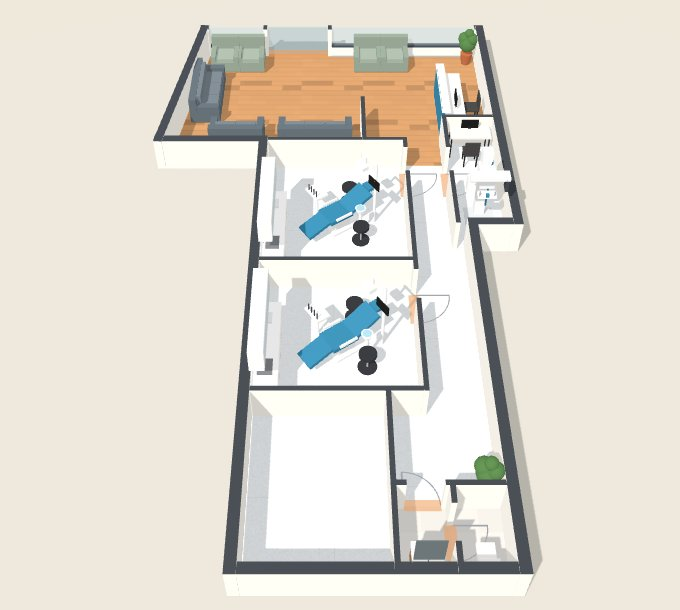
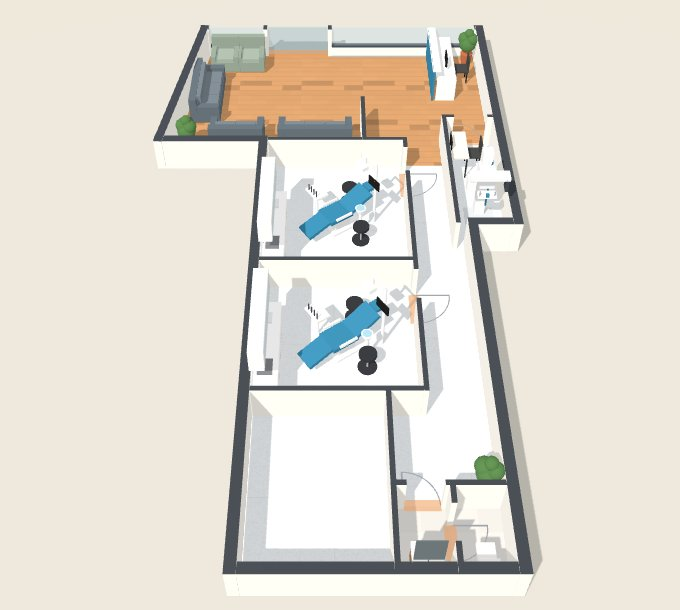
Klinik 3D: güncel yerleşim varsayılan plan yapıldı

Changed region(s): [[0.4941, 0.0311, 0.7412, 0.3115], [0.2471, 0.1869, 0.3088, 0.2492]]

diff --git a/klinik/index.html b/klinik/index.html
@@ -89,6 +89,7 @@ aside.off .cat button{opacity:.4;pointer-events:none}
   <button class="btn" id="b-undo" disabled>Geri al</button>
   <button class="btn" id="b-cut">Duvarlar: alçak</button>
   <button class="btn" id="b-reset">Planı sıfırla</button>
+  <button class="btn" id="b-export" hidden>Planı indir</button>
  </div>
 </header>
 <div class="app">
@@ -139,22 +140,11 @@ const CL_ROOMS=[
  {n:'Kullanılmayan alan',x0:3.01,z0:14.18,x1:6.22,z1:18.26,f:'vinil'},
  {n:'Lavabo',a:1.95,x0:6.22,z0:16.47,x1:7.43,z1:18.26,f:'seramik'},
  {n:'WC',a:1.95,x0:7.43,z0:16.47,x1:8.66,z1:18.26,f:'seramik'}];
-const CL_WALLS=[
- {a:[.78,0],b:[9.85,0],t:.25,o:[{s:.15,e:1.95,b:.35,t:2.5},{s:2.07,e:4.08,b:0,t:2.4,entry:'glass'},{s:4.2,e:8.9,b:.35,t:2.5}]},
- {a:[9.85,0],b:[9.85,8.97],t:.25,o:[]},{a:[9.85,8.97],b:[8.66,8.97],t:.25,o:[]},{a:[8.66,8.97],b:[8.66,18.26],t:.25,o:[]},
- {a:[3.01,18.26],b:[8.66,18.26],t:.25,o:[]},{a:[3.01,5.65],b:[3.01,18.26],t:.25,o:[]},{a:[0,5.65],b:[3.01,5.65],t:.25,o:[]},{a:[.78,0],b:[0,5.65],t:.25,o:[]},
- {a:[3.01,5.65],b:[7.07,5.65],t:.12,o:[]},{a:[5.91,3.75],b:[5.91,5.65],t:.12,o:[]},
- {a:[7.07,5.65],b:[7.07,14.18],t:.12,o:[{s:.38,e:1.36,b:0,t:2.1},{s:5,e:5.93,b:0,t:2.1}]},
- {a:[3.01,10.29],b:[7.07,10.29],t:.12,o:[]},{a:[3.01,14.18],b:[7.07,14.18],t:.12,o:[]},{a:[6.22,14.18],b:[6.22,18.26],t:.12,o:[]},
- {a:[8.28,4.62],b:[8.28,8.97],t:.12,o:[{s:1.41,e:2.39,b:0,t:2.1}]},{a:[8.28,4.62],b:[9.85,4.62],t:.12,o:[]},
- {a:[6.22,16.47],b:[8.66,16.47],t:.12,o:[{s:.27,e:1.07,b:0,t:2.1}]},{a:[7.43,16.47],b:[7.43,18.26],t:.12,o:[{s:.45,e:1.25,b:0,t:2.1}]}];
+const CL_WALLS=[{"a":[0.78,0],"b":[9.85,0],"t":0.25,"o":[{"s":0.15,"e":1.95,"b":0.35,"t":2.5},{"s":2.07,"e":4.08,"b":0,"t":2.4,"entry":"glass"},{"s":4.2,"e":8.9,"b":0.35,"t":2.5}]},{"a":[9.85,0],"b":[9.85,8.97],"t":0.25,"o":[]},{"a":[9.85,8.97],"b":[8.66,8.97],"t":0.25,"o":[]},{"a":[8.66,8.97],"b":[8.66,18.26],"t":0.25,"o":[]},{"a":[3.01,18.26],"b":[8.66,18.26],"t":0.25,"o":[]},{"a":[3.01,5.65],"b":[3.01,18.26],"t":0.25,"o":[]},{"a":[0,5.65],"b":[3.01,5.65],"t":0.25,"o":[]},{"a":[0.78,0],"b":[0,5.65],"t":0.25,"o":[]},{"a":[3.01,5.65],"b":[7.07,5.65],"t":0.12,"o":[]},{"a":[5.91,3.75],"b":[5.91,5.65],"t":0.12,"o":[]},{"a":[7.07,5.65],"b":[7.07,14.18],"t":0.12,"o":[{"s":0.38,"e":1.36,"b":0,"t":2.1},{"s":5,"e":5.93,"b":0,"t":2.1}]},{"a":[3.01,10.29],"b":[7.07,10.29],"t":0.12,"o":[]},{"a":[3.01,14.18],"b":[7.07,14.18],"t":0.12,"o":[]},{"a":[6.22,14.18],"b":[6.22,18.26],"t":0.12,"o":[]},{"a":[8.28,4.62],"b":[8.28,8.97],"t":0.12,"o":[]},{"a":[8.28,4.62],"b":[9.85,4.62],"t":0.12,"o":[{"s":0.3,"e":1.28,"b":0,"t":2.1}]},{"a":[6.22,16.47],"b":[8.66,16.47],"t":0.12,"o":[{"s":0.27,"e":1.07,"b":0,"t":2.1}]},{"a":[7.43,16.47],"b":[7.43,18.26],"t":0.12,"o":[{"s":0.45,"e":1.25,"b":0,"t":2.1}]}];
 const CL_DEFAULT=[
- ['armchair',1.49,.68,0],['armchair',2.32,.68,0],['armchair',6.16,.68,0],['armchair',7.03,.68,0],
- ['sofa',1.08,2.63,90],['sofa2',2.14,4.62,180],['sofa',4.48,4.62,180],['plant',9.45,.5,0],['reception',8.66,3.35,-90],
- ['dentalunit',5.18,8.1,-55],['ccounter',3.44,8.9,90],['dentalunit',5.24,12.3,-55],['ccounter',3.44,12.8,90],
- ['xpano',9.07,8.1,0],['desk',9.04,5.02,0],['sink',6.82,17.9,180],['toilet',8.05,17.8,180],['plant',8.25,16.1,0]];
+ ['armchair',1.49,.68,0],['armchair',2.32,.68,0],['sofa',1.08,2.63,90],['sofa2',2.14,4.62,180],['sofa',4.48,4.62,180],['plant',9.45,.5,0],['reception',8.55,1.35,-90],['dentalunit',5.18,8.1,-55],['ccounter',3.44,8.9,90],['dentalunit',5.24,12.3,-55],['ccounter',3.44,12.8,90],['xpano',9.07,8.1,0],['desk',8.6,5.6,90],['sink',6.82,17.9,180,'#a47a52'],['toilet',8.05,17.8,180,'#f4f3f0'],['plant',8.25,16.1,0],['plant',.7,4.95,0]];
 const UNITS={
- klinik:{name:'Diş Kliniği · zemin kat',W:9.85,D:18.26,rooms:CL_ROOMS,walls:CL_WALLS,def:CL_DEFAULT,key:'klinik3d-v2',start:{x:3.1,z:1.2,yaw:Math.PI},first:'Diş kliniği',outline:[[.78,0],[9.85,0],[9.85,8.97],[8.66,8.97],[8.66,18.26],[3.01,18.26],[3.01,5.65],[0,5.65]],
+ klinik:{name:'Diş Kliniği · zemin kat',W:9.85,D:18.26,rooms:CL_ROOMS,walls:CL_WALLS,def:CL_DEFAULT,key:'klinik3d-v3',start:{x:3.1,z:1.2,yaw:Math.PI},first:'Diş kliniği',outline:[[.78,0],[9.85,0],[9.85,8.97],[8.66,8.97],[8.66,18.26],[3.01,18.26],[3.01,5.65],[0,5.65]],
   dims:[['9,28 m',4.9,-.6,0],['16,30 m',10.5,8.15,Math.PI/2]]}};
 const clone=o=>JSON.parse(JSON.stringify(o));for(const u of Object.values(UNITS))u.walls0=clone(u.walls);
 let U=UNITS.klinik;
@@ -298,7 +288,7 @@ const ceiling=new THREE.Mesh(new THREE.PlaneGeometry(1,1),new THREE.MeshStandard
 /* ---------- EŞYALAR / DURUM ---------- */
 const itemsGroup=new THREE.Group();aptRoot.add(itemsGroup);
 let items=[],nid=1,selected=null;const objs=new Map();
-const fresh=()=>U.def.map(([type,x,z,rot])=>({id:nid++,type,x,z,rot,color:CAT[type].c}));
+const fresh=()=>U.def.map(([type,x,z,rot,c])=>({id:nid++,type,x,z,rot,color:c||CAT[type].c}));
 function loadItems(){items=[];try{const s=JSON.parse(localStorage.getItem(U.key)||'null');if(Array.isArray(s)&&s.length&&s.every(i=>CAT[i.type])){items=s;nid=Math.max(nid,...s.map(i=>i.id))+1;}}catch(e){}if(!items.length)items=fresh();}
 loadItems();
 const save=()=>{try{localStorage.setItem(U.key,JSON.stringify(items));}catch(e){}};
@@ -321,6 +311,7 @@ const rotate=()=>{const it=items.find(i=>i.id===selected);if(!it)return;pushUndo
 const remove=()=>{const it=items.find(i=>i.id===selected);if(!it)return;pushUndo();items=items.filter(i=>i!==it);itemsGroup.remove(objs.get(it.id));objs.delete(it.id);select(null);save();};
 $('#s-rot').onclick=rotate;$('#s-del').onclick=remove;
 $('#b-undo').onclick=()=>{if(!undo.length)return;const st=JSON.parse(undo.pop());if(Array.isArray(st))items=st;else{items=st.i;U.walls=st.w;clearWallSel();rebuildWalls();saveWalls();}rebuildAll();save();$('#b-undo').disabled=!undo.length;};
+if(location.protocol==='file:'){const be=$('#b-export');be.hidden=false;be.onclick=()=>{const a=document.createElement('a');a.href=URL.createObjectURL(new Blob([JSON.stringify({items,walls:U.walls},null,1)],{type:'application/json'}));a.download='klinik-plan.json';a.click();};}
 $('#b-reset').onclick=()=>{pushUndo();items=fresh();U.walls=clone(U.walls0);clearWallSel();rebuildWalls();saveWalls();rebuildAll();save();};
 
 /* ---------- KAMERALAR / GÖRÜNÜMLER ---------- */
